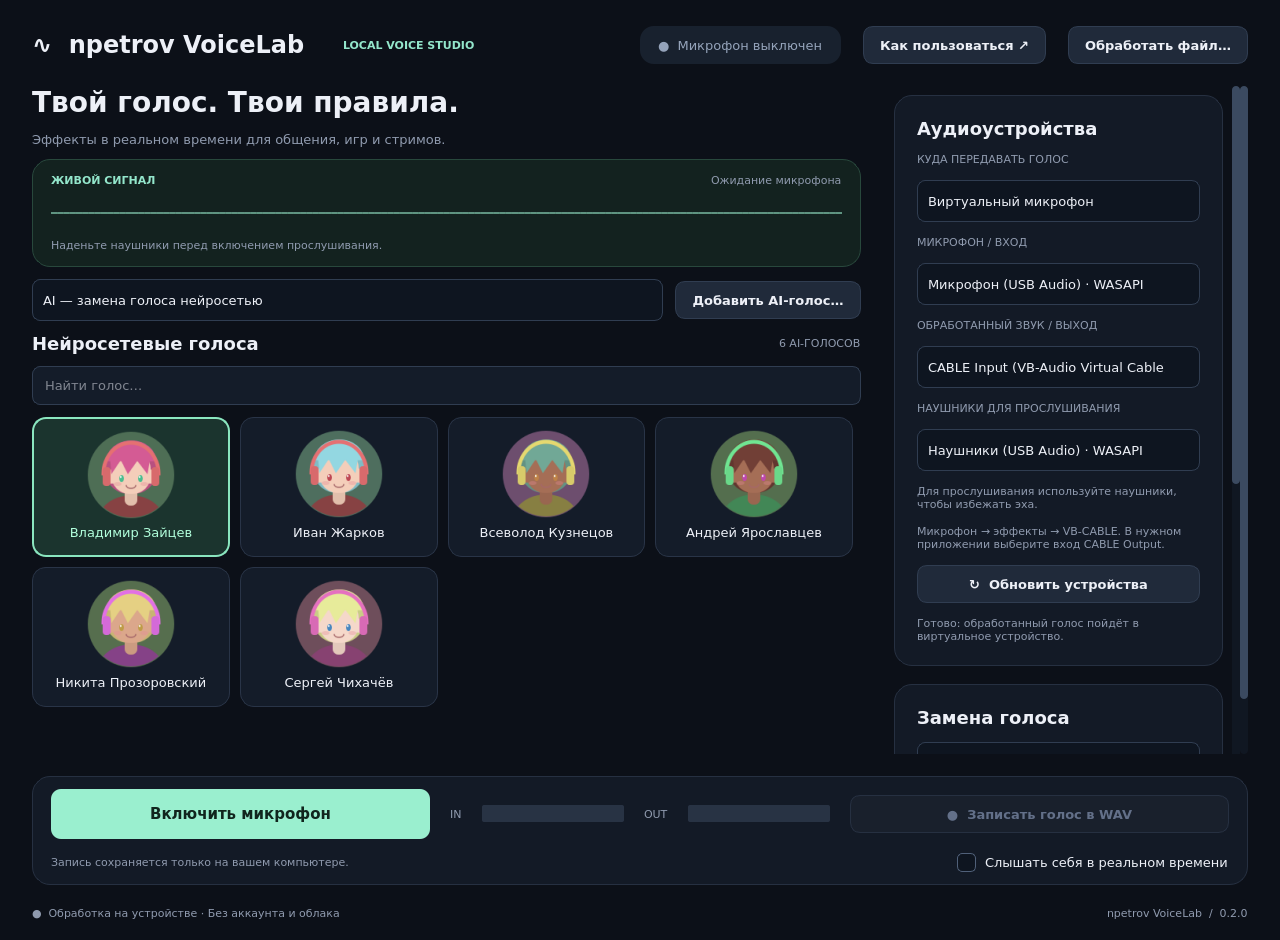
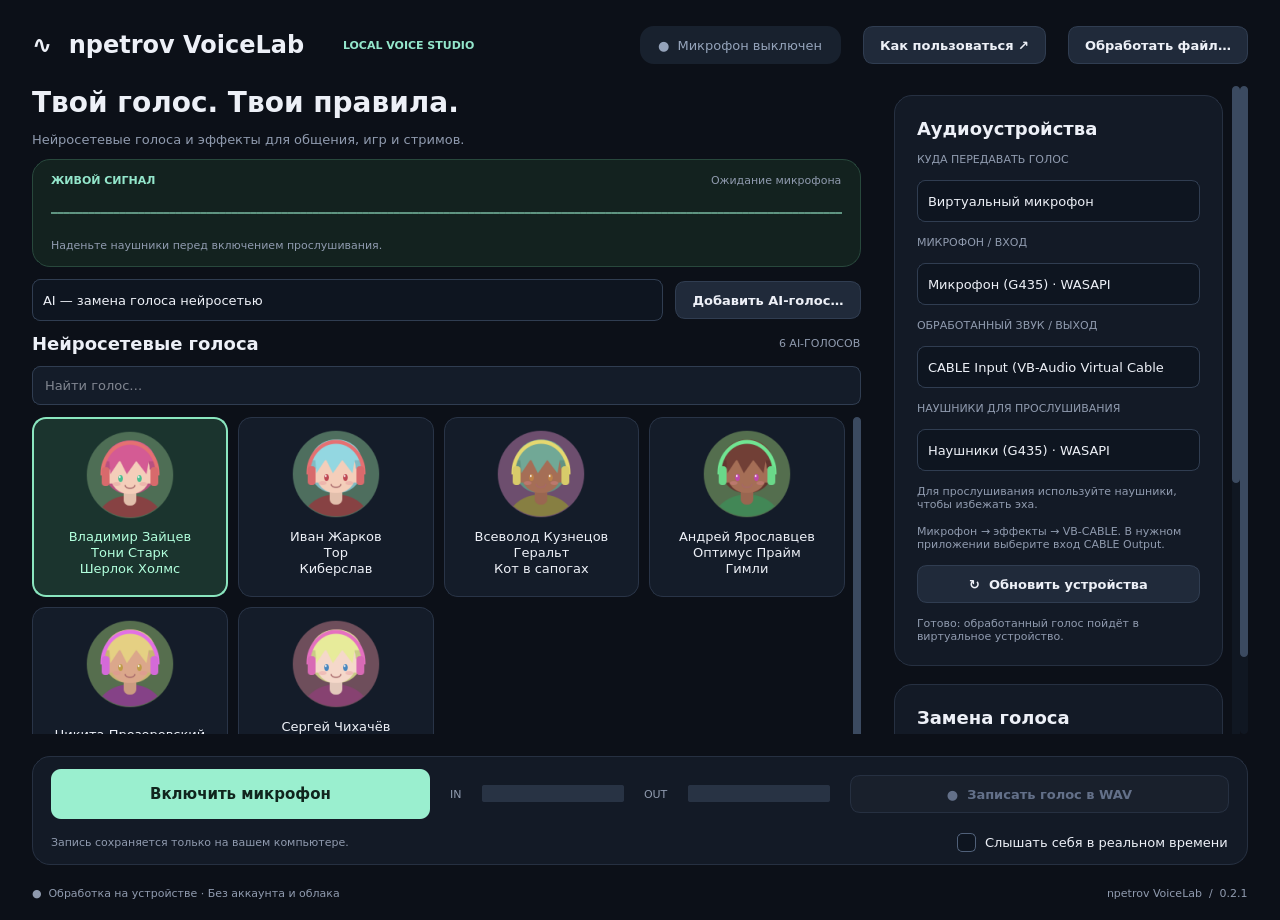
Show actor character credits on AI voice cards and in voice selection

diff --git a/src/voicelab/app.py b/src/voicelab/app.py
@@ -20,6 +20,7 @@ from .neural_ui import NeuralPanel
 from .presets import CATEGORIES, PRESETS, PRESET_BY_ID
 from .routing import is_virtual_input, is_virtual_output
 from .settings import load_preferences, save_preferences
+from .voice_roles import actor_roles, roles_caption, roles_description
 
 
 STYLE = """
@@ -389,7 +390,7 @@ class MainWindow(QMainWindow):
         self.timer.start(50)
 
     def filter_presets(self, *args):
-        query = self.search.text().strip().casefold()
+        query = self.search.text().strip().casefold().replace("ё", "е")
         category = self.category_combo.currentText()
         visible = 0
         self.category_combo.setEnabled(not self.ai.active)
@@ -415,10 +416,12 @@ class MainWindow(QMainWindow):
                     button.setSizePolicy(QSizePolicy.Policy.Expanding, QSizePolicy.Policy.Fixed)
                     button.clicked.connect(lambda checked=False, key=voice.id: self.ai.voice_combo.setCurrentIndex(self.ai.voice_combo.findData(key)))
                     self.ai_buttons[voice.id] = button
-                button.setText(voice.name.split(" — ")[0])
-                button.setToolTip(f"Нейросетевая модель: {voice.name}\n{voice.credit}")
+                roles = actor_roles(voice.name)
+                button.setText("\n".join([voice.name.split(" — ")[0], *(role for role, _ in roles)]))
+                button.setMinimumHeight(180 if roles else 140)
+                button.setToolTip(f"Нейросетевая модель: {voice.name}\n{roles_description(voice.name)}\n{voice.credit}".strip())
                 button.setChecked(self.ai.voice is not None and voice.id == self.ai.voice.id)
-                matches = query in voice.name.casefold()
+                matches = query in f"{voice.name} {roles_description(voice.name)}".casefold().replace("ё", "е")
                 button.setVisible(matches)
                 if matches:
                     self.preset_grid.addWidget(button, visible // 4, visible % 4)
@@ -448,8 +451,13 @@ class MainWindow(QMainWindow):
         self._previous_ai_active = self.ai.active
         self.filter_presets()
         if self.ai.active:
-            self.description.setText(f"AI: {self.ai.voice.name}. Голос преобразуется локальной нейросетью."
-                                     if self.ai.voice else "Для естественной замены нужна обученная модель голоса.")
+            if self.ai.voice:
+                caption = roles_caption(self.ai.voice.name)
+                self.description.setText(f"AI: {self.ai.voice.name}. "
+                                         + (roles_description(self.ai.voice.name) + " " if caption else "")
+                                         + "Голос преобразуется локальной нейросетью.")
+            else:
+                self.description.setText("Для естественной замены нужна обученная модель голоса.")
         else:
             self.description.setText(self.selected.description)
         if not self.engine.running:

diff --git a/src/voicelab/neural_ui.py b/src/voicelab/neural_ui.py
@@ -2,13 +2,14 @@
 
 import threading
 
-from PySide6.QtCore import QObject, QThread, Signal, Slot
+from PySide6.QtCore import QObject, QThread, Qt, Signal, Slot
 from PySide6.QtWidgets import (
     QComboBox, QDialog, QDialogButtonBox, QFileDialog, QHBoxLayout, QLabel,
     QLineEdit, QProgressBar, QPushButton, QVBoxLayout, QWidget,
 )
 
 from .models import DownloadCancelled, install_voice, installed_voices
+from .voice_roles import roles_caption, roles_description
 
 
 class InstallWorker(QObject):
@@ -211,7 +212,12 @@ class NeuralPanel(QWidget):
         self.voice_combo.clear()
         self.voices = installed_voices()
         for voice in self.voices:
-            self.voice_combo.addItem(voice.name, voice.id)
+            caption = roles_caption(voice.name)
+            title = voice.name.split(" — ")[0] + " — " + caption if caption else voice.name
+            self.voice_combo.addItem(title, voice.id)
+            self.voice_combo.setItemData(self.voice_combo.count() - 1,
+                                         roles_description(voice.name) or voice.name,
+                                         Qt.ItemDataRole.ToolTipRole)
         index = self.voice_combo.findData(identifier)
         if index >= 0:
             self.voice_combo.setCurrentIndex(index)
@@ -223,8 +229,14 @@ class NeuralPanel(QWidget):
         self.buffer.setVisible(self.active)
         self.add_button.setVisible(self.active)
         if self.active:
-            self.note.setText("Модель: " + self.voice.name + ". Интонации и язык следуют вашей речи."
-                              if self.voice else "AI-голоса пока не установлены. Добавьте обученную модель нужного персонажа.")
+            if self.voice:
+                roles = roles_description(self.voice.name)
+                self.note.setText("Модель: " + self.voice.name + ".\n" + (roles + "\n" if roles else "")
+                                  + "Интонации и язык следуют вашей речи.")
+                self.voice_combo.setToolTip(roles or self.voice.name)
+            else:
+                self.note.setText("AI-голоса пока не установлены. Добавьте обученную модель нужного персонажа.")
+                self.voice_combo.setToolTip("")
         else:
             self.note.setText("48 наборов эффектов. Для естественной замены личности голоса выберите режим AI.")
         self.changed.emit()

diff --git a/src/voicelab/voice_roles.py b/src/voicelab/voice_roles.py
@@ -1,0 +1,45 @@
+"""Recognisable roles of the actors in the bundled Russian voice library."""
+
+# These describe the actor's credits, not separate character-trained models.
+# Match the actor name so existing installations need no model re-download.
+ACTOR_ROLES = {
+    "владимир зайцев": (
+        ("Тони Старк", "«Железный человек»"),
+        ("Шерлок Холмс", "фильмы Гая Ричи"),
+    ),
+    "иван жарков": (
+        ("Тор", "киновселенная Marvel"),
+        ("Киберслав", "«Киберслав»"),
+    ),
+    "всеволод кузнецов": (
+        ("Геральт", "«Ведьмак 3»"),
+        ("Кот в сапогах", "«Шрек 2»"),
+    ),
+    "андрей ярославцев": (
+        ("Оптимус Прайм", "«Трансформеры» (2007)"),
+        ("Гимли", "«Властелин колец»"),
+    ),
+    "никита прозоровский": (
+        ("Агент 47", "Hitman: Absolution"),
+    ),
+    "сергей чихачев": (
+        ("Пудж", "Dota 2"),
+        ("Earthshaker", "Dota 2"),
+    ),
+}
+
+
+def actor_roles(name):
+    actor = name.split(" — ")[0].strip().casefold().replace("ё", "е")
+    return ACTOR_ROLES.get(actor, ())
+
+
+def roles_caption(name):
+    return " · ".join(role for role, _ in actor_roles(name))
+
+
+def roles_description(name):
+    roles = actor_roles(name)
+    if not roles:
+        return ""
+    return "Озвучивал: " + "; ".join(f"{role} ({work})" for role, work in roles) + "."

diff --git a/src/voicelab/__init__.py b/src/voicelab/__init__.py
@@ -1,4 +1,4 @@
 """VoiceLab: local microphone effects. No cloud services or model downloads."""
 
 APP_NAME = "npetrov VoiceLab"
-__version__ = "0.2.0"
+__version__ = "0.2.1"

diff --git a/README.md b/README.md
@@ -1,10 +1,12 @@
 # npetrov VoiceLab для Windows
 
-Локальное приложение для нейросетевой замены голоса и передачи результата в виртуальный микрофон Windows. Отдельная интеграция с Discord не требуется. В версии 0.2.0 есть **RVC AI-режим**, **шесть моделей русской озвучки** в личном установщике владельца и отдельный режим **48 эффектов**. Есть выбор микрофона, виртуального выхода и наушников, запись WAV и прослушивание в реальном времени.
+Локальное приложение для нейросетевой замены голоса и передачи результата в виртуальный микрофон Windows. Отдельная интеграция с Discord не требуется. В версии 0.2.1 есть **RVC AI-режим**, **шесть моделей русской озвучки** в личном установщике владельца и отдельный режим **48 эффектов**. Есть выбор микрофона, виртуального выхода и наушников, запись WAV и прослушивание в реальном времени.
 
 **AI-режим действительно преобразует голос обученными моделями**, используя ContentVec, RMVPE и RVC. Модели входят в личный EXE-установщик; после установки обработка работает без интернета. PyTorch используется при сборке и не включается в приложение. На Windows ускорение идёт через DirectML (NVIDIA/AMD/Intel с подходящим драйвером); есть режим CPU.
 
 Набор включает модели Владимира Зайцева, Ивана Жаркова, Всеволода Кузнецова, Андрея Ярославцева, Никиты Прозоровского и Сергея Чихачёва из открытого набора сообщества `daswer123/RVC-big-ru-voice-pack`. Это модели актёров русской озвучки. Точность сходства зависит от модели, исходной речи и микрофона. Подтверждённые модели нужной русской озвучки Локи, Дэдпула и Таноса в этот набор не входят.
+
+Карточки и список выбора показывают известные роли: Тони Старк и Шерлок Холмс у Зайцева, Тор и Киберслав у Жаркова, Геральт и Кот в сапогах у Кузнецова, Оптимус Прайм и Гимли у Ярославцева, Агент 47 у Прозоровского, Пудж и Earthshaker у Чихачёва. Поиск находит голос по персонажу или названию фильма/игры. Подписи описывают роли актёров, а не отдельные модели каждого персонажа.
 
 **Режим эффектов** сохраняет высоту, эквализацию, робота, хорус, эхо и реверберацию. Его 48 карточек — рецепты DSP, а AI-каталог показывает только реально установленные нейросетевые модели.
 

diff --git a/docs/RELEASE_NOTES.md b/docs/RELEASE_NOTES.md
@@ -1,4 +1,17 @@
-Нейросетевая замена голоса RVC в npetrov VoiceLab 0.2.0.
+npetrov VoiceLab 0.2.1 — подписи персонажей у голосов.
+
+На карточках и в списке выбора теперь показаны известные роли актёров:
+
+- Владимир Зайцев — Тони Старк, Шерлок Холмс.
+- Иван Жарков — Тор, Киберслав.
+- Всеволод Кузнецов — Геральт («Ведьмак 3»), Кот в сапогах.
+- Андрей Ярославцев — Оптимус Прайм, Гимли.
+- Никита Прозоровский — Агент 47 (Hitman: Absolution).
+- Сергей Чихачёв — Пудж, Earthshaker (Dota 2).
+
+Подробности с названием фильма или игры видны у выбранного голоса и при наведении. Поиск находит голоса по персонажу и произведению. Подписи описывают роли актёра; в комплекте остаются те же шесть актёрских моделей RVC.
+
+Обновление устанавливается поверх 0.2.0.
 
 - В личном установщике — шесть обученных моделей русской озвучки: Владимир Зайцев, Иван Жарков, Всеволод Кузнецов, Андрей Ярославцев, Никита Прозоровский и Сергей Чихачёв. После установки работают без интернета.
 - Выбор голоса карточкой, ускорение DirectML или CPU, буфер AI 160–640 мс. PyTorch не нужен на компьютере пользователя.
